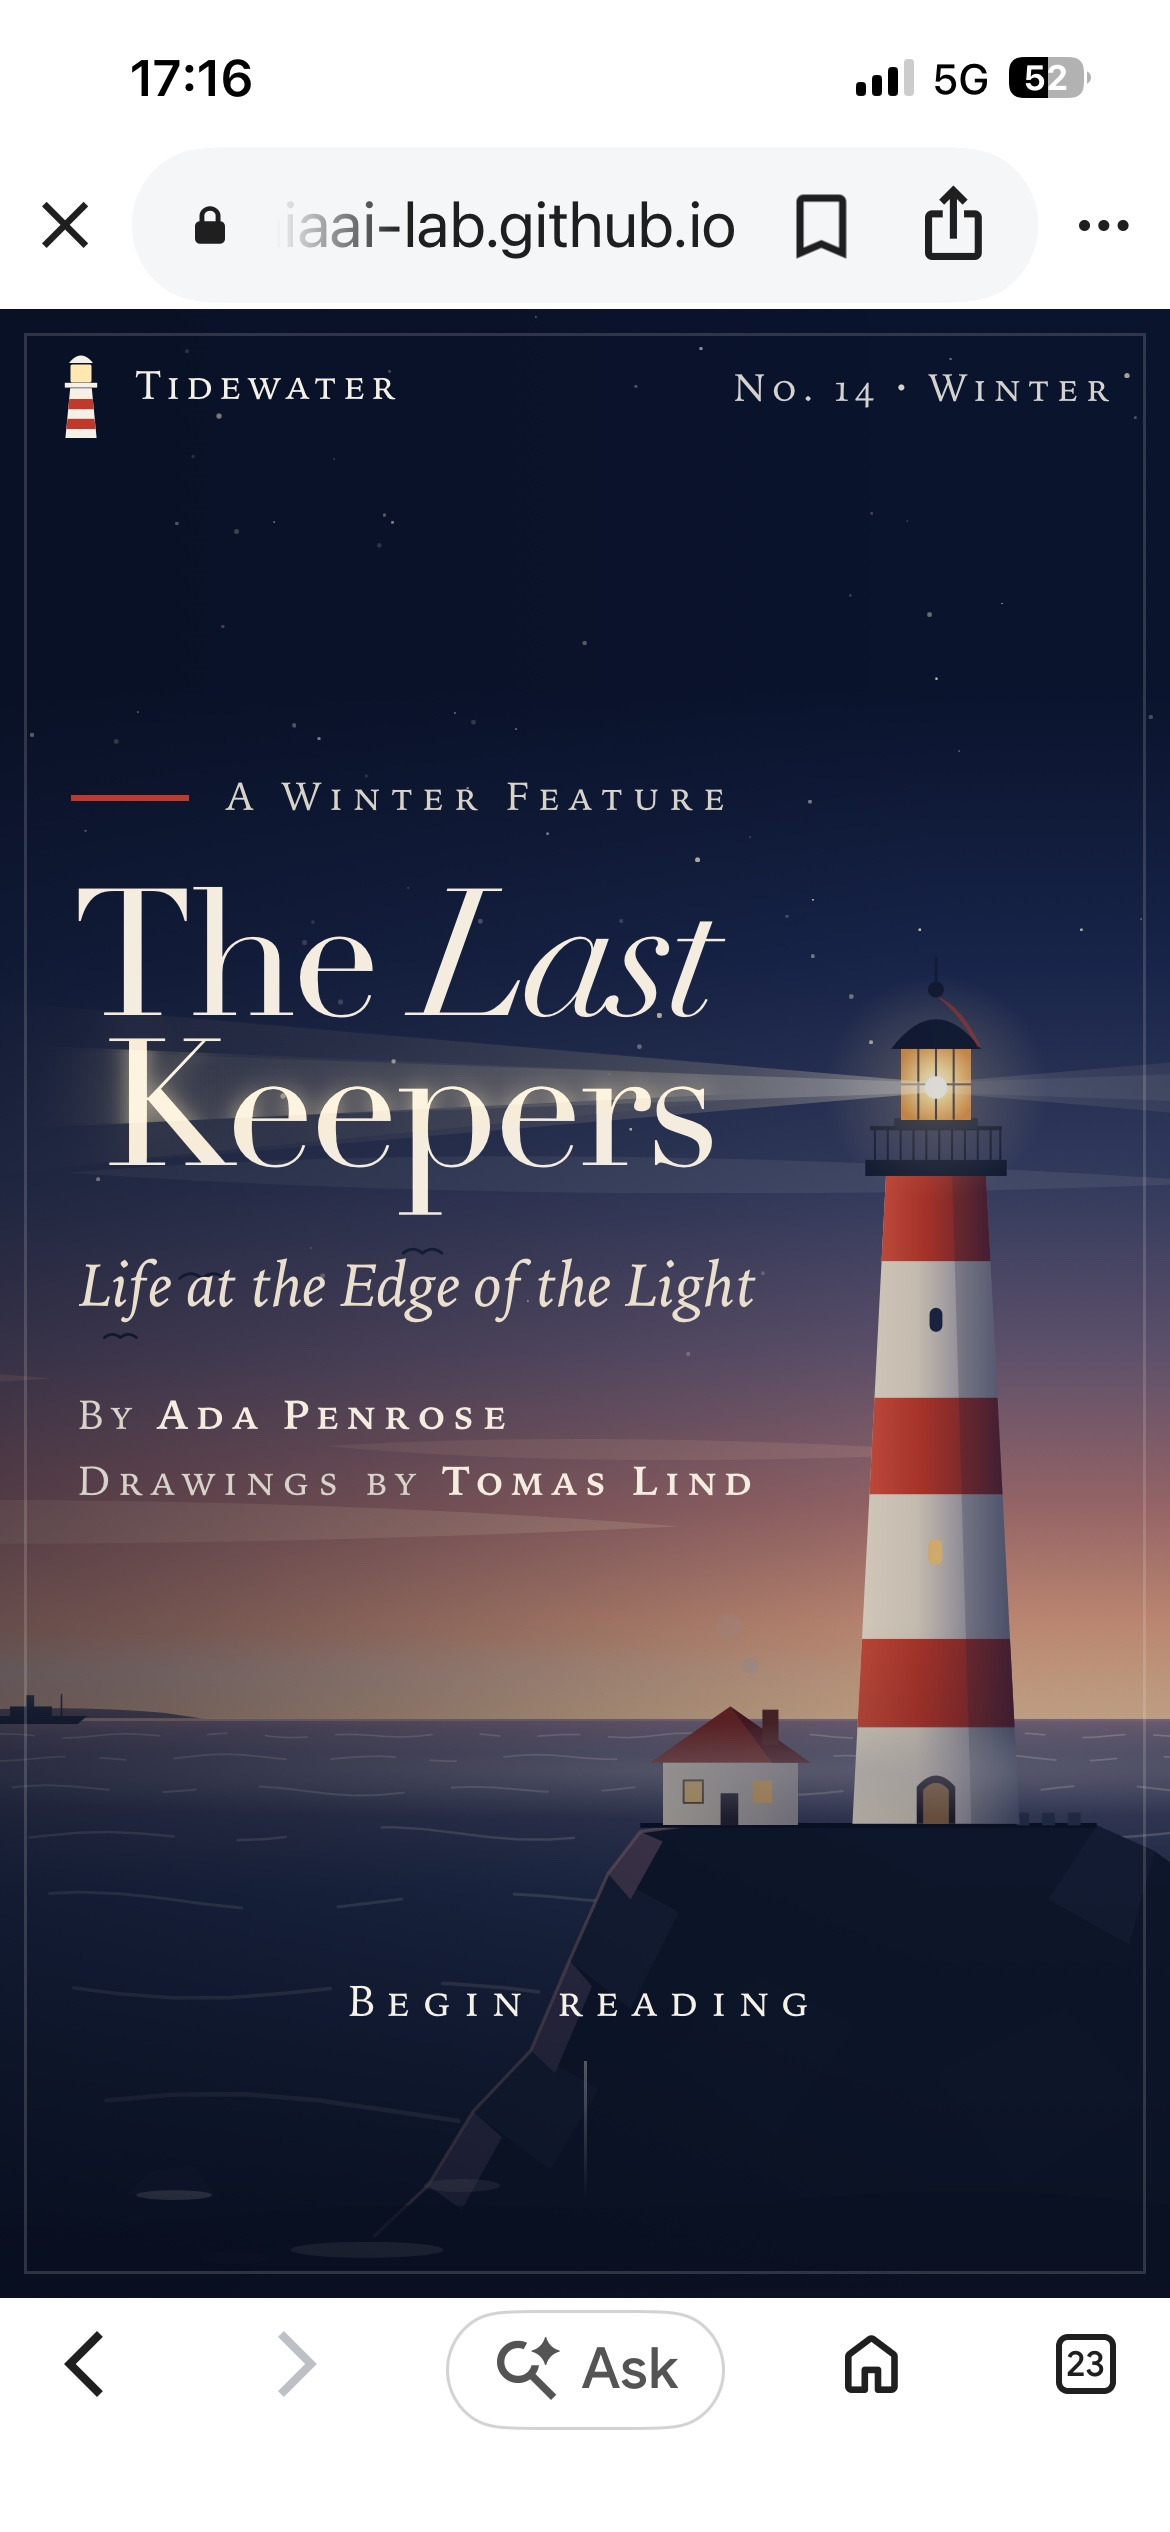
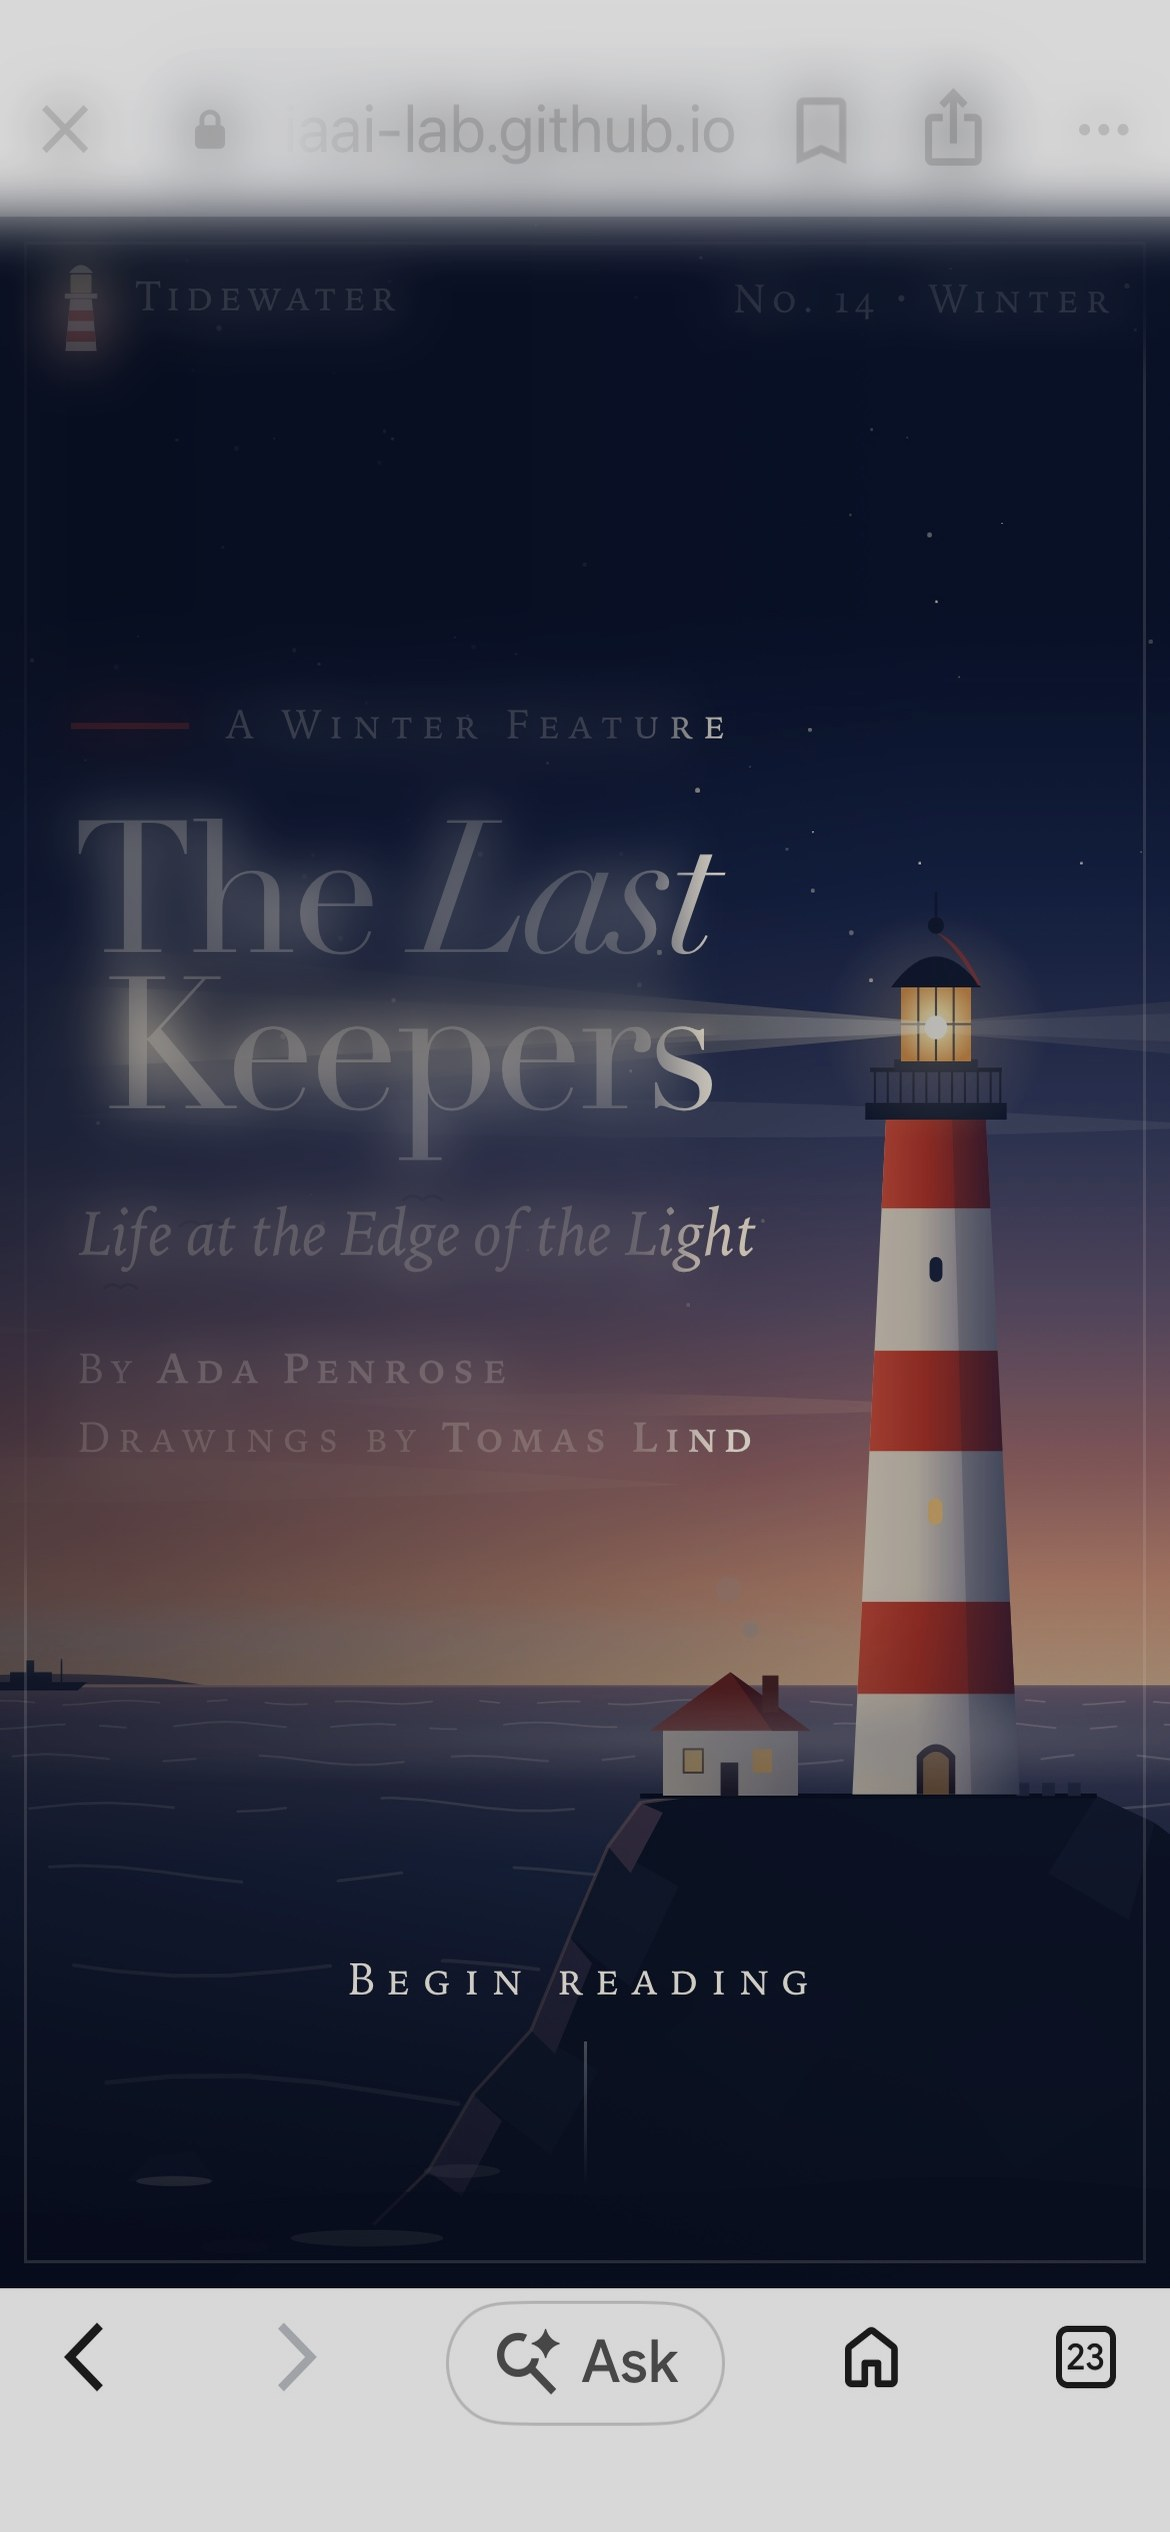
fix: scrub foreign UI from scenic theme photos
Blur/crop baked-in demo chrome from Nimbus, Keepers, and Neon Rain
backgrounds so only atmosphere remains behind our app elements.

diff --git a/src/app/globals.css b/src/app/globals.css
@@ -902,7 +902,7 @@ textarea.input-field {
   --sheet-chip-bg: linear-gradient(135deg, #2d7dd2, #7eb6e8);
   --sheet-chip-ink: #ffffff;
   --theme-bg:
-    linear-gradient(180deg, rgba(255, 255, 255, 0.08), rgba(180, 214, 245, 0.35)),
+    linear-gradient(180deg, rgba(255, 255, 255, 0.18), rgba(160, 205, 240, 0.42)),
     url("/themes/nimbus-sky.jpg") center top / cover no-repeat;
 }
 .theme-nimbus .card-surface,
